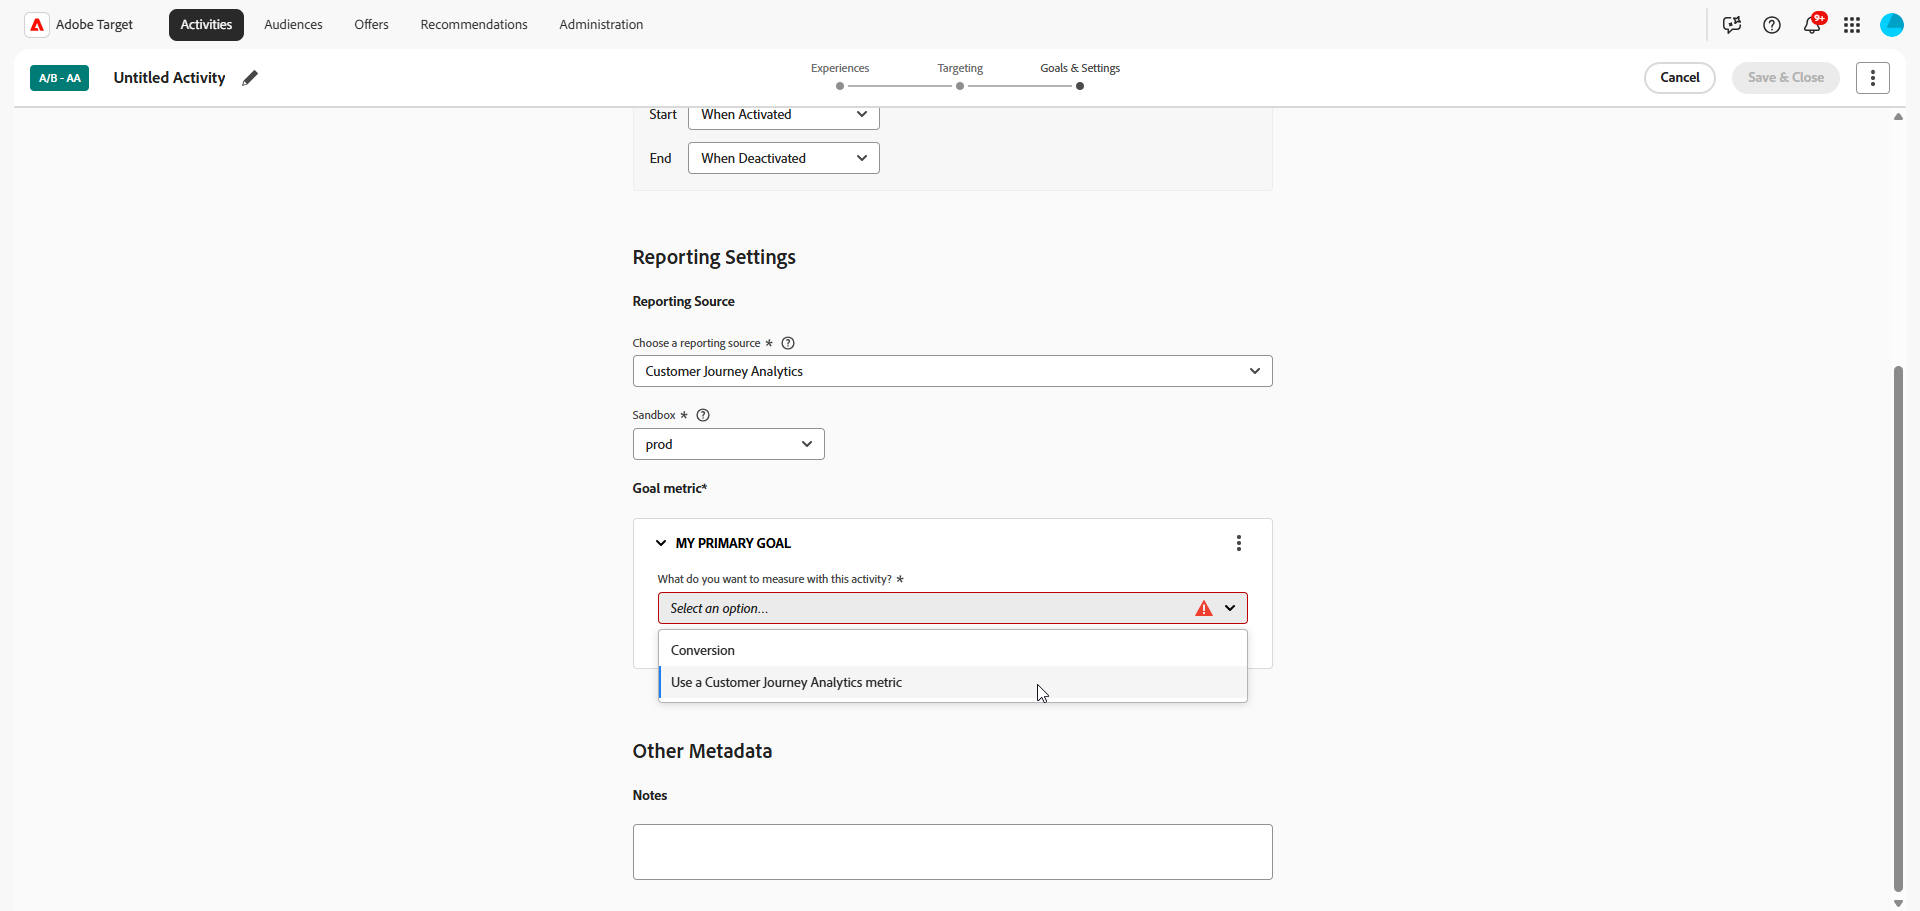
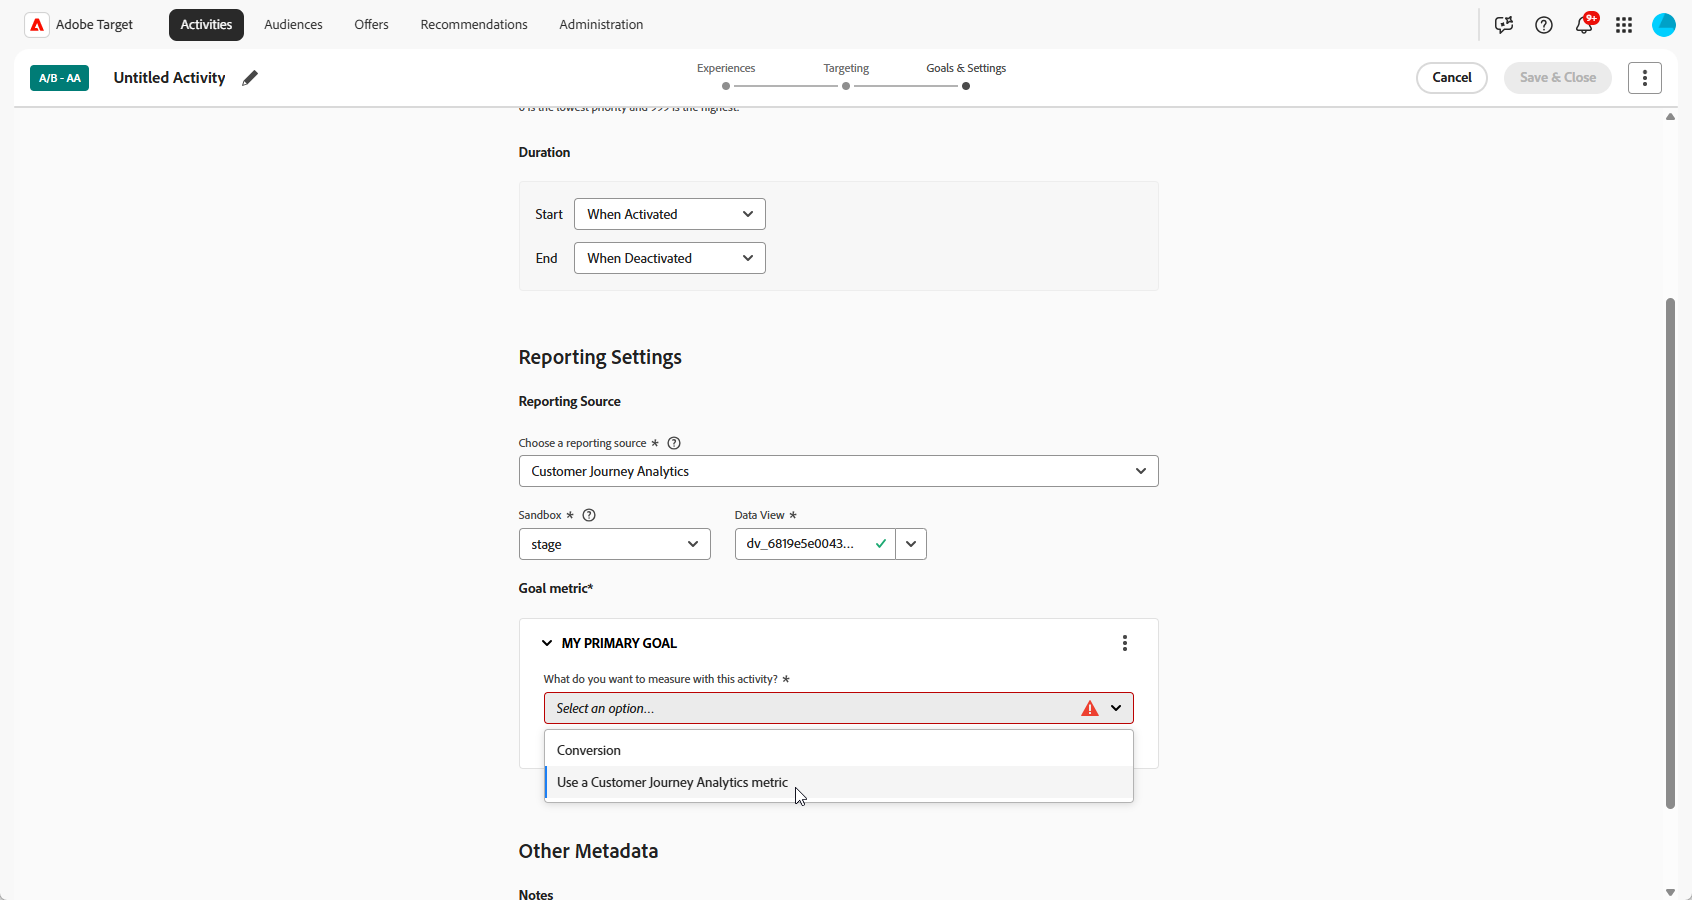
correct screens

diff --git a/help/main/c-integrating-target-with-mac/cja/target-reporting-in-cja.md b/help/main/c-integrating-target-with-mac/cja/target-reporting-in-cja.md
@@ -114,6 +114,10 @@ Creating a [!DNL Target] activity that uses [!DNL Customer Journey Analytics] as
 
    ![Select sandbox option](/help/main/c-integrating-target-with-mac/cja/assets/sandbox.png)
 
+1. Select a **[!UICONTROL Data view]**. A data view functions like an [!DNL Analytics] report suite for [!DNL Customer Journey Analytics] reporting. Only data views in the selected sandbox that you have access to are shown.
+
+    ➡ [Learn more about Data view in Adobe Customer Journey Analytics documentation](https://experienceleague.adobe.com/en/docs/analytics-platform/using/cja-dataviews/data-views)
+
 1. Specify the goal metric. Choose one of the following options:
 
    * **[!UICONTROL Conversion]**: Choose the action your audience must take to indicate the goal has been reached. [Learn more about success metrics](/help/main/c-activities/r-success-metrics/success-metrics.md).
